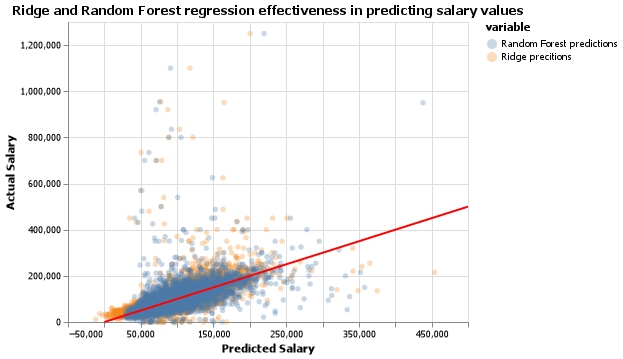
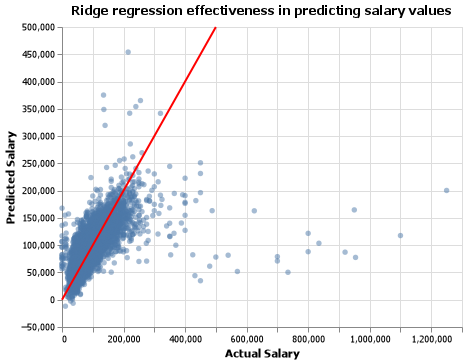
changed evaluate script to only evaluate ridge model

diff --git a/src/compare_models.py b/src/compare_models.py
@@ -82,7 +82,6 @@ def main(opt):
     scores = {
         "Metric": ["R2", "RMSE"],
         "Ridge Scores": [r2_ridge, rmse],
-        "Random Forest Scores": [r2_rf, rmse_rf]
     }
     
     test_scores = pd.DataFrame(scores)
@@ -92,17 +91,13 @@ def main(opt):
     # Plot the predicted values against true values, then save the graph in the output directory
     y_data = {
         "Ridge precitions": y_pred_ridge,
-        "Random Forest predictions": y_pred_rf,
         "y_actual": y_test.iloc[:, 0]
     }
     salary_data = pd.DataFrame(y_data)
-    salary_data = salary_data.melt(value_vars = ["Ridge precitions", "Random Forest predictions"], id_vars = "y_actual")
 
-
-    point = alt.Chart(salary_data, title='Ridge and Random Forest regression effectiveness in predicting salary values').mark_circle(opacity = 0.3).encode(
-        alt.X("value", title="Predicted Salary"),
-        alt.Y('y_actual', title="Actual Salary"),
-        color = "variable"
+    point = alt.Chart(salary_data, title='Ridge regression effectiveness in predicting salary values').mark_circle(opacity = 0.5).encode(
+        alt.X("y_actual", title="Actual Salary"),
+        alt.Y("Ridge precitions", title="Predicted Salary")
     )
 
     line = pd.DataFrame({
